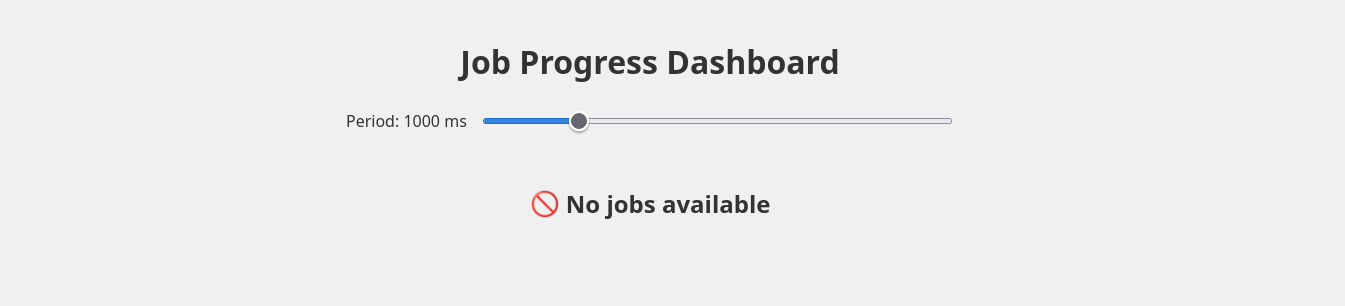
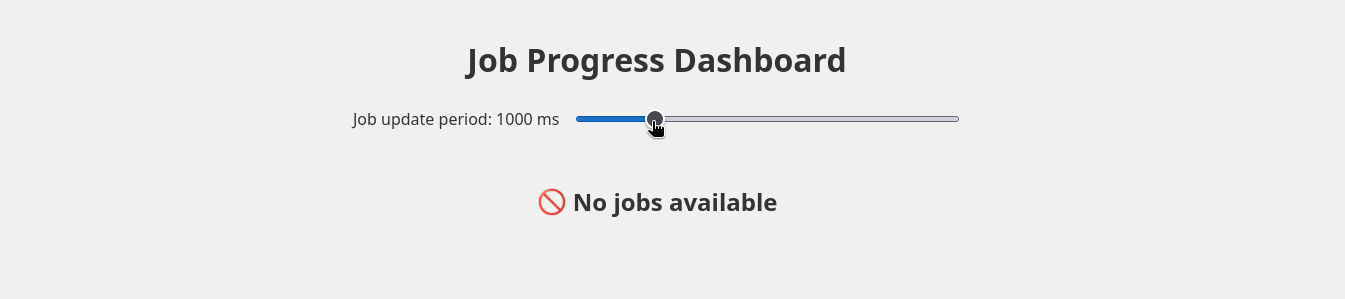
Rename Period to Job update period for clear naming

Changed region(s): [[0.2498, 0.3612, 0.7182, 0.4816], [0.3435, 0.1505, 0.6558, 0.2709], [0.3747, 0.6321, 0.5933, 0.7224]]

diff --git a/src/components/PeriodSlider.tsx b/src/components/PeriodSlider.tsx
@@ -26,7 +26,7 @@ export const PeriodSlider: FC = () => {
 
   return (
     <label htmlFor={inputId} className="period-label">
-      <span>Period: {period} ms</span>
+      <span>Job update period: {period} ms</span>
       <input
         id={inputId}
         className="period-input"
